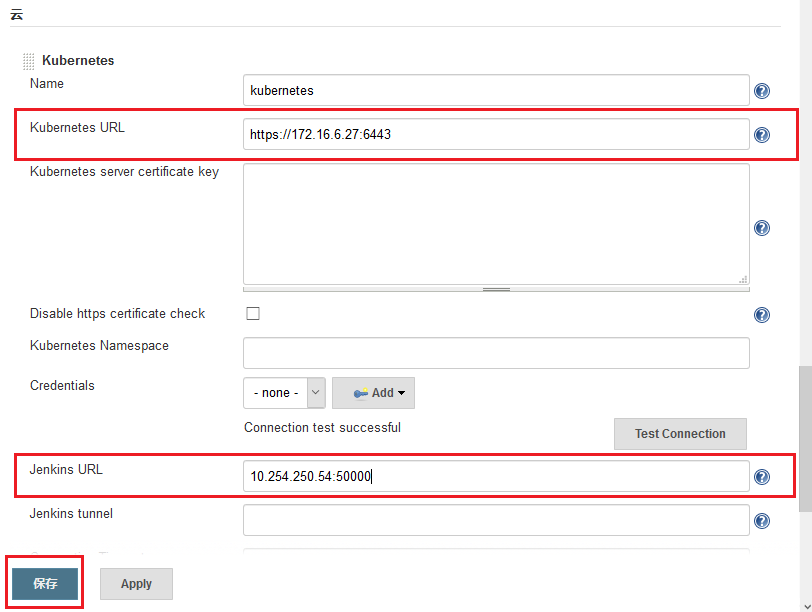
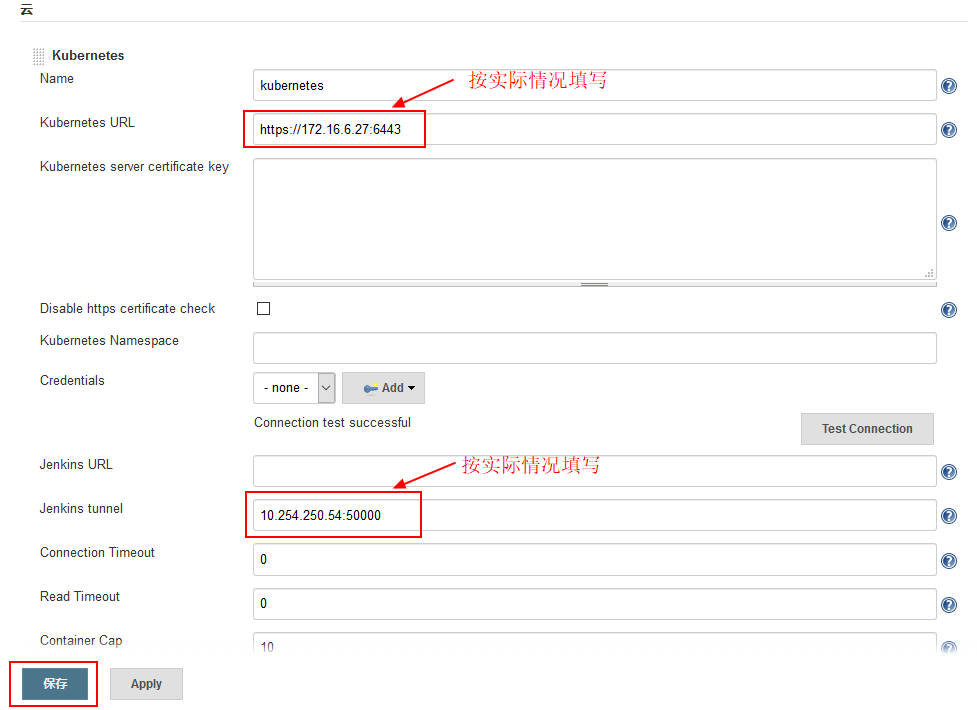
commit

diff --git a/1_基础实践/2_搭建CICD流水线.md b/1_基础实践/2_搭建CICD流水线.md
@@ -268,17 +268,17 @@ subjects:
 
 ![](Images/2/jenkins-k8s-connection-test.png)
 
-2）Jenkins tunnel地址：IP地址使用Jenkins Master对应的服务（Kubernetes Service）的集群服务地址（ClusterIP），并使用50000端口。   
+2）Jenkins tunnel地址：IP地址使用Jenkins Master对应的服务（Kubernetes Service）的集群服务地址（ClusterIP），对于本示例即为10.254.250.54，并使用50000端口。   
 ![](Images/2/jenkins-check-jenkins-tunnel.png)
 
 以上两项是必须配置项，您也可以根据实际情况进行更多的配置，例如修改Kubernetes-Name字段，不使用默认的“kubernetes”作为Name。  
 
 
-### Step 5: 验证Jenkins Pipeline（未成功)   
-完成以上配置后，您可以创建一个最简单的“hello world” Pipeline进行验证： 
+### Step 5: 验证Jenkins Pipeline   
+完成以上配置后，您可以在Jenkins中创建一个最简单的“hello world” Pipeline进行验证： 
 ![](Images/2/jenkins-helloworld-test-1.png)  
 
-在流水线中填入“hello world”测试脚本：   
+在流水线编辑框中填入如下所示的“hello world”测试脚本：   
 ![](Images/2/jenkins-helloworld-test-2.png)  
 脚本如下：  
 ```
@@ -294,7 +294,7 @@ podTemplate(label: 'test', cloud: 'kubernetes') {
 保存流水线配置，随后点击“立即构建”开始执行任务构建：  
 ![](Images/2/jenkins-helloworld-test-3.png)  
 
-注：在这个Pipeline过程中，Jenkins后台将会自动从Dockerhub镜像仓库中拉取默认的Jenkins Slave镜像jenkins-slave:alpine，因此第一次构建过程需要耗费一定时间，请耐心等待。 
+> 注：在“hello world”这个Pipeline过程中，Jenkins后台将会自动从Dockerhub镜像仓库中拉取默认的Jenkins Slave镜像jenkins-slave:alpine，拉取镜像过程需要耗费一定时间，且容易由于网络问题拉取失败，建议保持耐心多尝试几次。 
 
 可以在EKS界面中观察到后端自动创建的作为Jenkins Slave的Pod： 
 
